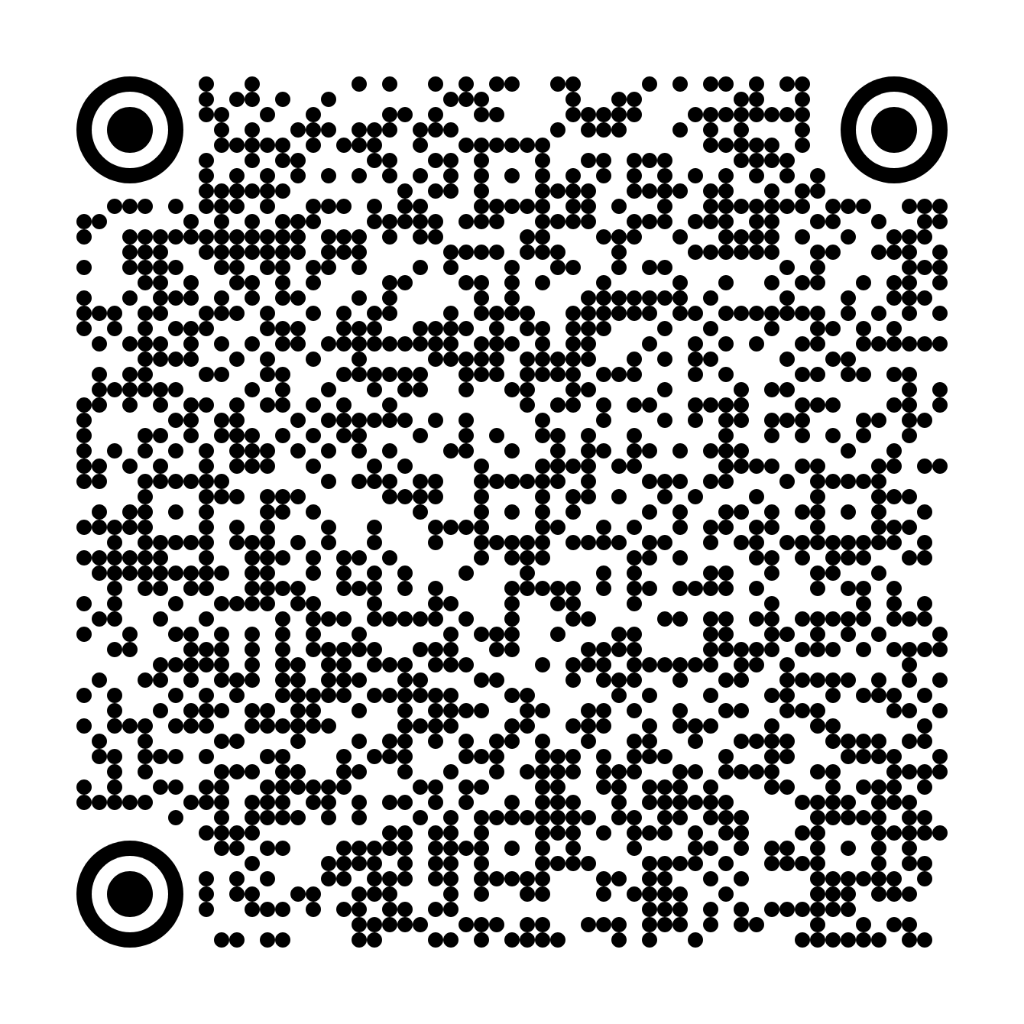
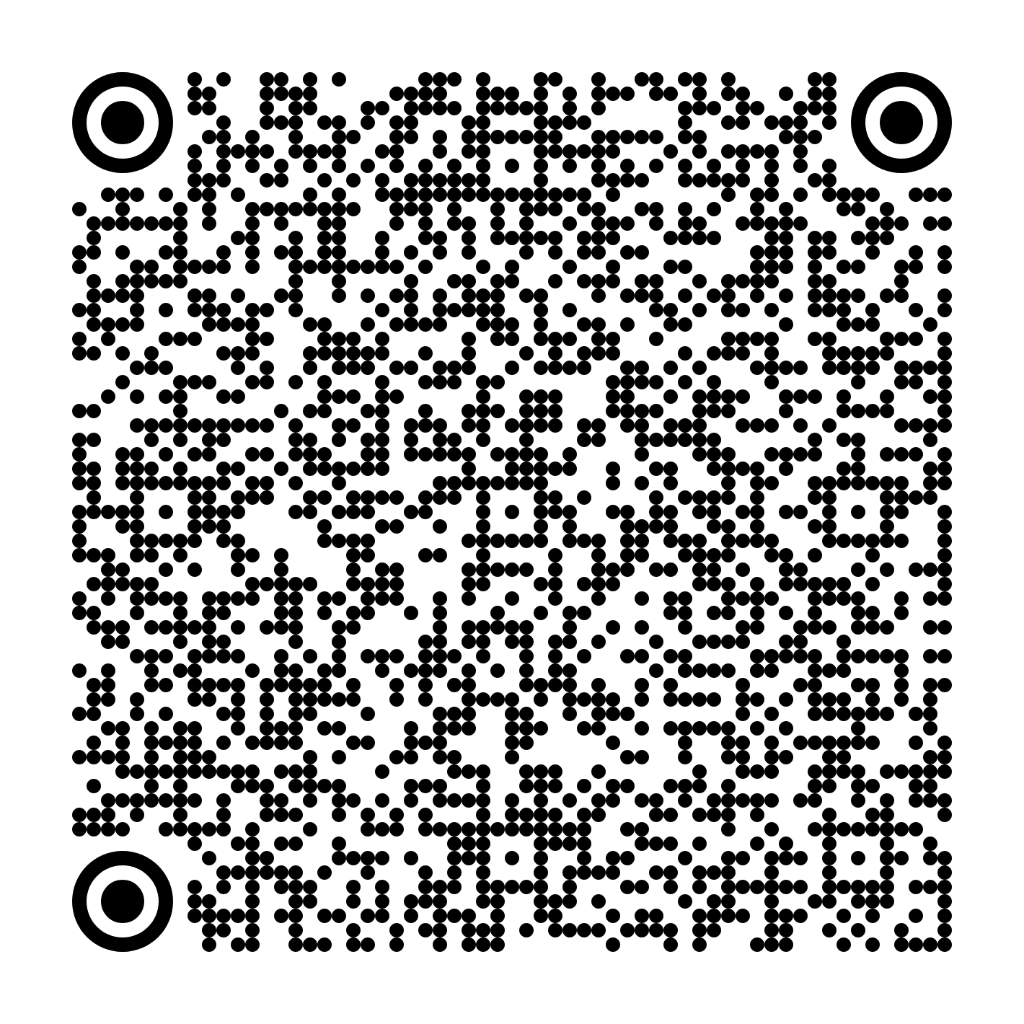
chore: attempt #35

diff --git a/README.md b/README.md
@@ -40,17 +40,19 @@ This repository hosts a [F-Droid](https://f-droid.org/) repo for curated Android
 ## Apps
 
 <!-- This table is auto-generated. Do not edit -->
-| Icon | Name | Description | Version |
-| --- | --- | --- | --- |
-| <a href="https://github.com/arsLan4k1390/Cherrygram"><img src="fdroid/repo/uz.unnarsx.cherrygram/en-US/icon.png" alt="Cherrygram icon" width="36px" height="36px"></a> | [**Cherrygram**](https://github.com/arsLan4k1390/Cherrygram) | Third-party Telegram client with privacy-focused modifications | 11.9.1 (59100) |
-| <a href="https://github.com/chen08209/FlClash"><img src="fdroid/repo/com.follow.clash/en-US/icon.png" alt="FlClash icon" width="36px" height="36px"></a> | [**FlClash**](https://github.com/chen08209/FlClash) | A multi-platform proxy client based on ClashMeta,simple and easy to use, open... | 0.8.86 (2025061501) |
-| <a href="https://github.com/Happ-proxy/happ-android"><img src="fdroid/repo/su.happ.proxyutility/en-US/icon.png" alt="Happ icon" width="36px" height="36px"></a> | [**Happ**](https://github.com/Happ-proxy/happ-android) | A proxy management app powered by Xray core with support for multiple protocols. | 2.8.1 (1195) |
-| <a href="https://github.com/hiddify/hiddify-app"><img src="fdroid/repo/app.hiddify.com/en-US/icon.png" alt="Hiddify icon" width="36px" height="36px"></a> | [**Hiddify**](https://github.com/hiddify/hiddify-app) | Multi-platform auto-proxy client, supporting Sing-box, X-ray, TUIC, Hysteria,... | 2.5.7 (20507) |
-| <a href="https://github.com/MatsuriDayo/NekoBoxForAndroid"><img src="fdroid/repo/moe.nb4a/en-US/icon.png" alt="NekoBox icon" width="36px" height="36px"></a> | [**NekoBox**](https://github.com/MatsuriDayo/NekoBoxForAndroid) | NekoBox for Android / sing-box / universal proxy toolchain for Android | 1.3.9 (215) |
-| <a href="https://github.com/Nekogram/Nekogram"><img src="fdroid/repo/tw.nekomimi.nekogram/en-US/icon.png" alt="Nekogram icon" width="36px" height="36px"></a> | [**Nekogram**](https://github.com/Nekogram/Nekogram) | Open-source third-party Telegram client with not many but useful modifications. | 11.12.0 (59970) |
-| <a href="https://github.com/obsidianmd/obsidian-releases"><img src="fdroid/repo/md.obsidian/en-US/icon.png" alt="Obsidian icon" width="36px" height="36px"></a> | [**Obsidian**](https://github.com/obsidianmd/obsidian-releases) | Community plugins list, theme list, and releases of Obsidian. | 1.8.10 (197) |
-| <a href="https://github.com/2dust/v2rayNG"><img src="fdroid/repo/com.v2ray.ang/en-US/icon.png" alt="v2rayNG icon" width="36px" height="36px"></a> | [**v2rayNG**](https://github.com/2dust/v2rayNG) | A V2Ray client for Android, support Xray core and v2fly core | 1.10.7 (4000657) |
-| <a href="https://github.com/wgtunnel/wgtunnel"><img src="fdroid/repo/com.zaneschepke.wireguardautotunnel/en-US/icon.png" alt="WG Tunnel icon" width="36px" height="36px"></a> | [**WG Tunnel**](https://github.com/wgtunnel/wgtunnel) | A FOSS Android client for WireGuard and AmneziaWG with auto-tunneling. | 3.9.3 (39300) |
+
+| Icon                                                                                                                                                                          | Name                                                            | Description                                                                      | Version             |
+| ----------------------------------------------------------------------------------------------------------------------------------------------------------------------------- | --------------------------------------------------------------- | -------------------------------------------------------------------------------- | ------------------- |
+| <a href="https://github.com/arsLan4k1390/Cherrygram"><img src="fdroid/repo/uz.unnarsx.cherrygram/en-US/icon.png" alt="Cherrygram icon" width="36px" height="36px"></a>        | [**Cherrygram**](https://github.com/arsLan4k1390/Cherrygram)    | Third-party Telegram client with privacy-focused modifications                   | 11.9.1 (59100)      |
+| <a href="https://github.com/chen08209/FlClash"><img src="fdroid/repo/com.follow.clash/en-US/icon.png" alt="FlClash icon" width="36px" height="36px"></a>                      | [**FlClash**](https://github.com/chen08209/FlClash)             | A multi-platform proxy client based on ClashMeta,simple and easy to use, open... | 0.8.86 (2025061501) |
+| <a href="https://github.com/Happ-proxy/happ-android"><img src="fdroid/repo/su.happ.proxyutility/en-US/icon.png" alt="Happ icon" width="36px" height="36px"></a>               | [**Happ**](https://github.com/Happ-proxy/happ-android)          | A proxy management app powered by Xray core with support for multiple protocols. | 2.8.1 (1195)        |
+| <a href="https://github.com/hiddify/hiddify-app"><img src="fdroid/repo/app.hiddify.com/en-US/icon.png" alt="Hiddify icon" width="36px" height="36px"></a>                     | [**Hiddify**](https://github.com/hiddify/hiddify-app)           | Multi-platform auto-proxy client, supporting Sing-box, X-ray, TUIC, Hysteria,... | 2.5.7 (20507)       |
+| <a href="https://github.com/MatsuriDayo/NekoBoxForAndroid"><img src="fdroid/repo/moe.nb4a/en-US/icon.png" alt="NekoBox icon" width="36px" height="36px"></a>                  | [**NekoBox**](https://github.com/MatsuriDayo/NekoBoxForAndroid) | NekoBox for Android / sing-box / universal proxy toolchain for Android           | 1.3.9 (215)         |
+| <a href="https://github.com/Nekogram/Nekogram"><img src="fdroid/repo/tw.nekomimi.nekogram/en-US/icon.png" alt="Nekogram icon" width="36px" height="36px"></a>                 | [**Nekogram**](https://github.com/Nekogram/Nekogram)            | Open-source third-party Telegram client with not many but useful modifications.  | 11.12.0 (59970)     |
+| <a href="https://github.com/obsidianmd/obsidian-releases"><img src="fdroid/repo/md.obsidian/en-US/icon.png" alt="Obsidian icon" width="36px" height="36px"></a>               | [**Obsidian**](https://github.com/obsidianmd/obsidian-releases) | Community plugins list, theme list, and releases of Obsidian.                    | 1.8.10 (197)        |
+| <a href="https://github.com/2dust/v2rayNG"><img src="fdroid/repo/com.v2ray.ang/en-US/icon.png" alt="v2rayNG icon" width="36px" height="36px"></a>                             | [**v2rayNG**](https://github.com/2dust/v2rayNG)                 | A V2Ray client for Android, support Xray core and v2fly core                     | 1.10.7 (4000657)    |
+| <a href="https://github.com/wgtunnel/wgtunnel"><img src="fdroid/repo/com.zaneschepke.wireguardautotunnel/en-US/icon.png" alt="WG Tunnel icon" width="36px" height="36px"></a> | [**WG Tunnel**](https://github.com/wgtunnel/wgtunnel)           | A FOSS Android client for WireGuard and AmneziaWG with auto-tunneling.           | 3.9.3 (39300)       |
+
 <!-- end apps table -->
 
 ## How to use
@@ -66,7 +68,7 @@ This repository hosts a [F-Droid](https://f-droid.org/) repo for curated Android
 3. **Scan QR Code** - Use the QR code above or manually add the repository URL:
 
    ```txt
-   https://xpos587.github.io/fdroid/?fingerprint=94FA53EC8CA69F08E6D4EF89E99E7CF1C0EB356DDAFD9F37B302C4087446F922
+   https://fdroid.link/#https://xpos587.github.io/fdroid/repo?fingerprint=94FA53EC8CA69F08E6D4EF89E99E7CF1C0EB356DDAFD9F37B302C4087446F922
    ```
 
 4. **Install Apps** - Search for "WG Tunnel", "v2rayNG" or other apps in the Droid-ify client.
